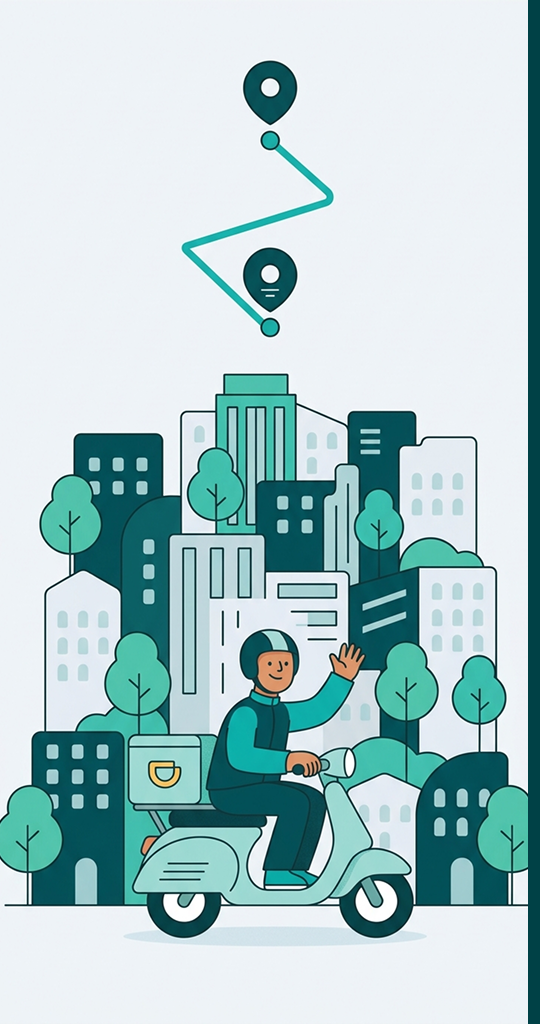
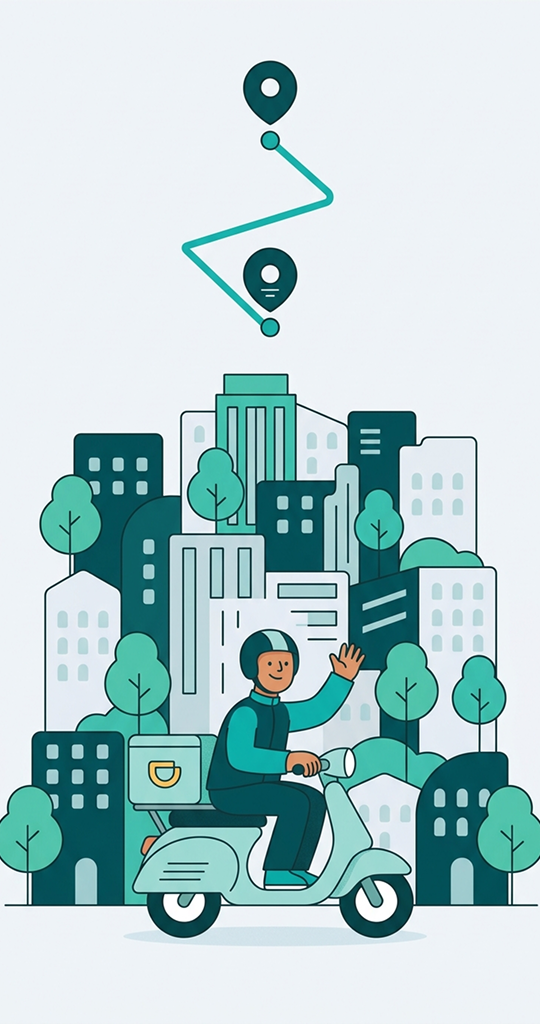
:ok_hand: style: ajuste no tamanho dos elementos do login e inserção de nova imagem no aside

Changed region(s): [[0.9778, 0.0, 1.0, 1.0]]

diff --git a/perg/src/pages/login/login.module.css b/perg/src/pages/login/login.module.css
@@ -2,7 +2,7 @@
   display: flex;
   width: 100%;
   height: 100vh;
-  overflow: hidden;
+  height: 100dvh;
   background-color: var(--cor-superficie-branca);
 }
 
@@ -11,7 +11,7 @@
   min-width: 280px;
   height: 100%;
   background-color: var(--cor-fundo-claro);
-  border-right: 6px solid var(--cor-primaria-verde-escuro);
+  border-right: 10px solid var(--cor-primaria-verde-escuro);
   display: flex;
   flex-direction: column;
   justify-content: flex-end;
@@ -30,7 +30,7 @@
 .ilustracaoImagem {
   width: 100%;
   height: 100%;
-  object-fit: cover;
+  object-fit: contain;
   object-position: bottom center;
   display: block;
 }
@@ -38,8 +38,9 @@
 .conteudoPrincipal {
   flex: 1;
   min-width: 0;
+  min-height: 0;
   height: 100%;
-  overflow: hidden;
+  box-sizing: border-box;
   display: flex;
   flex-direction: column;
   align-items: center;
@@ -50,20 +51,18 @@
 
 .login {
   width: 100%;
-  max-width: 40%;
-  max-height: 80%;
-  height: 100%;
+  max-width: 28rem;
   display: flex;
   flex-direction: column;
 }
 
 .cabecalho {
-  margin-bottom: var(--espacamento-lg);
+  margin-bottom: var(--espacamento-sm);
 }
 
 .logo {
   height: auto;
-  width: 11rem;
+  width: 8rem;
   max-width: 100%;
   margin-bottom: var(--espacamento-lg);
   display: block;
@@ -77,7 +76,7 @@
 }
 
 .subtitulo {
-  font-size: var(--tamanho-subtitulo);
+  font-size: var(--tamanho-texto);
   color: var(--cor-texto-secundario);
 }
 
@@ -87,7 +86,7 @@
   background-color: var(--cor-fundo-claro);
   padding: var(--espacamento-xs);
   border-radius: var(--raio-pequeno);
-  margin-bottom: var(--espacamento-lg);
+  margin-bottom: var(--espacamento-sm);
 }
 
 .botaoNavegacao {
@@ -114,6 +113,7 @@
 .botaoNavegacaoAtivo:hover {
   background-color: var(--cor-verde-destaque);
   color: var(--cor-primaria-verde-escuro);
+  border-radius: none;
 }
 
 .autenticacao {
@@ -122,7 +122,7 @@
 
 .botaoGoogle {
   width: 100%;
-  height: var(--altura-botao-grande);
+  height: var(--altura-botao-medio);
   display: flex;
   align-items: center;
   justify-content: center;
@@ -190,7 +190,7 @@
 .input {
   width: 100%;
   box-sizing: border-box;
-  height: var(--altura-botao-grande);
+  height: var(--altura-botao-medio);
   padding: 0 var(--espacamento-md);
   background-color: var(--cor-fundo-input);
   color: var(--cor-primaria-verde-escuro);
@@ -285,7 +285,7 @@
 
 .botaoEntrar {
   width: 100%;
-  height: var(--altura-botao-grande);
+  height: var(--altura-botao-medio);
   margin-top: var(--espacamento-sm);
   background-color: var(--cor-verde-destaque);
   color: var(--cor-primaria-verde-escuro);
